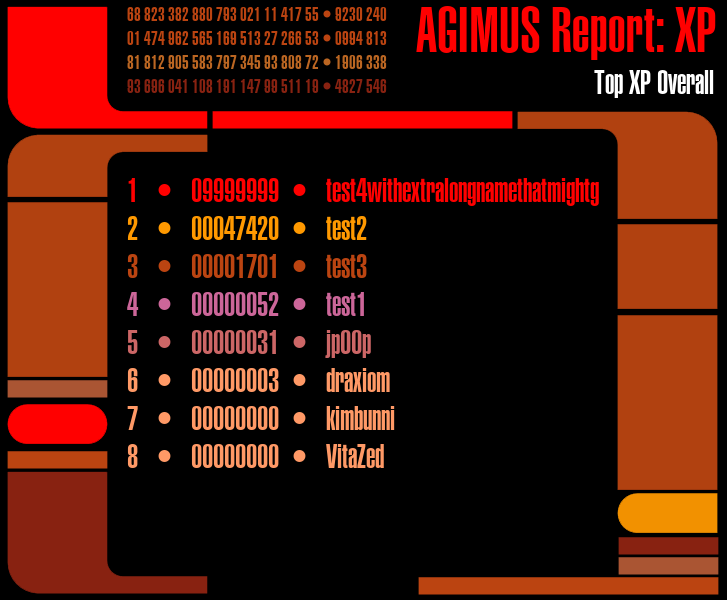
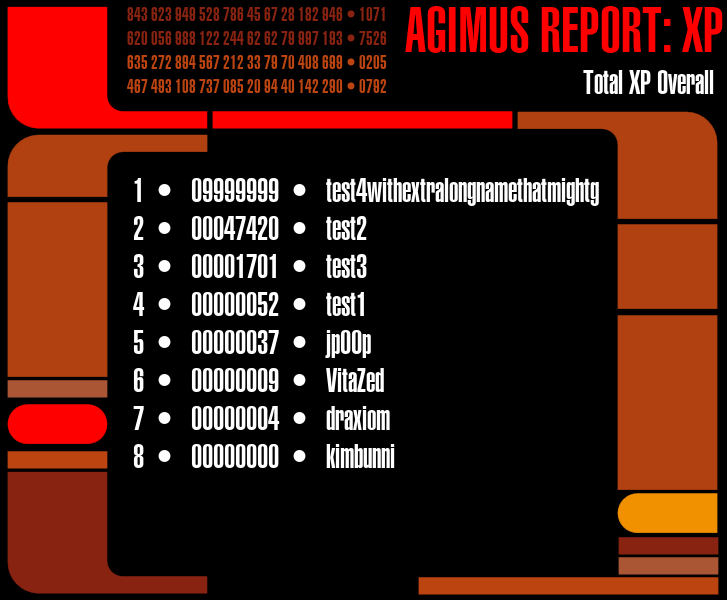
late night refactoring
made the report image generator a lot more generic

now you just pass a title, description, and list of strings that you want reported and it will make the image for you!

also fixed xp history logging to log channel id not name

Changed region(s): [[0.1513, 0.3, 0.8473, 0.78], [0.1513, 0.0, 0.9986, 0.18]]

diff --git a/commands/reports.py b/commands/reports.py
@@ -13,16 +13,25 @@ from utils.check_channel_access import access_check
     discord.OptionChoice(
       name="XP",
       value="xp"
+    ),
+    discord.OptionChoice(
+      name="Scores",
+      value="scores"
     )
   ]
 )
+
 @commands.check(access_check)
 # reports() - entrypoint for /reports command
 # will help us build fancy looking reports for administration and fun
 async def reports(ctx:discord.ApplicationContext, report:str):
   if report == "xp":
     image = generate_xp_report_card()
+  if report == "scores":
+    image = generate_scores_report_card()
+  if image:
     await ctx.respond(file=image, ephemeral=False)
+
 
 # get_xp_report() - returns a dictionary of overall top xp users
 def get_xp_report():
@@ -36,54 +45,92 @@ def get_xp_report():
   db.close()
   return results
 
-# generate_xp_report_card() - returns a discord.File ready for embedding
+# get_scores_report() - returns a dictionary of users sorted by top scores
+def get_scores_report():
+  db = getDB()
+  query = db.cursor(dictionary=True)
+  sql = "SELECT name,score FROM users ORDER BY score DESC LIMIT 10"
+  query.execute(sql)
+  results = query.fetchall()
+  db.commit()
+  query.close()
+  db.close()
+  return results
+
+# process the xp data and generate an image
 def generate_xp_report_card():
-  xp_font = ImageFont.truetype("images/context.ttf", 34)
+  xp_data = get_xp_report()
+  title = "AGIMUS REPORT"
+  description = "Total XP Overall"
+  rows = []
+  rank = 1
+  for row in xp_data:
+    truncated_name = row["name"][:31]
+    rows.append("{:>3} {spacer:^4} {:>08d} {spacer:^4} {}".format(rank, row["xp"], truncated_name, spacer="•"))
+    rank += 1
+  return generate_report_card(title, description, rows)
+
+# process the scores data and generate an image
+def generate_scores_report_card():
+  score_data = get_scores_report()
+  title = "AGIMUS REPORT"
+  description = "Top scores"
+  rows = []
+  rank = 1
+  for row in score_data:
+    truncated_name = row["name"][:31]
+    rows.append("{:>3} {spacer:^4} {:>08d} {spacer:^4} {}".format(rank, row["score"], truncated_name, spacer="•"))
+    rank += 1
+  return generate_report_card(title, description, rows)
+
+
+# generate_report_card(title:str, description:str, rows:list) - generate a generic report - returns a discord.File ready for embedding
+# title[required]: the report title
+# description[required]: the report description
+# rows[required]: a list of rows for the report (max 10 items)
+def generate_report_card(title:str, description:str, rows:list):
+
+  normal_font = ImageFont.truetype("images/context.ttf", 34)
   title_font = ImageFont.truetype("images/context.ttf", 63)
   deco_font = ImageFont.truetype("images/context.ttf", 20)
-  xp_data = get_xp_report()
-  
-  template_image = "report-template.png"
+
+  template_image = "report-template.png" # the base image for all reports (for now)
   image = Image.open(f"./images/{template_image}", "r")
   image = image.convert("RGBA") # just in case
 
   draw = ImageDraw.Draw(image) # prepare thy pencil!
 
-  # draw title and report description
-  draw.text( (416, 6), "AGIMUS Report: XP", fill="#ff0000", font=title_font, anchor="lt", align="left")
-  draw.text( (594, 70), "Top XP Overall", fill="white", font=xp_font, anchor="lt", align="left")
+  # draw title and report description at the top right
+  draw.text( (715, 6), title, fill="#ff0000", font=title_font, anchor="rt", align="right")
+  draw.text( (715, 70), description, fill="white", font=normal_font, anchor="rt", align="right")
 
   # generate a bunch of fancy random numbers for the top, why not!
-  deco_rows = 4
-  bit_stream = {}
+  deco_rows = 4 # 4 rows of number
+  bit_stream = {} # this will hold the actual strings at the end
   for i in range(deco_rows):
-    random_bits = {}
+    # number grouping based on a random LCARS image i saw
+    random_bits = {} # this holds the ints for formatting
     bit_stream[i] = {}
-    random_bits[0] = random.randint(0, 99)
     for x in range(1,6):
-      random_bits[x] = random.randint(0, 999)
-    random_bits[6] = random.randint(0, 99)
-    random_bits[7] = random.randint(0, 999)
-    random_bits[8] = random.randint(0, 99)
+      random_bits[x] = random.randint(0, 999) # random int
+      bit_stream[i][x] = "{:03}".format(random_bits[x]) # format the string
+    for x in [0, 6, 8]:    
+      random_bits[x] = random.randint(0, 99)
+      bit_stream[i][x] = f"{random_bits[x]:02}" 
+    for x in [7, 11]:
+      random_bits[x] = random.randint(0, 999) 
+      bit_stream[i][x] = f"{random_bits[x]:03}"
     random_bits[9] = "•"
     random_bits[10] = random.randint(0, 9999)
-    random_bits[11] = random.randint(0, 999)
-
-    bit_stream[i][0] = f"{random_bits[0]:02}"
-    for b in range(1,6):
-      bit_stream[i][b] = "{:03}".format(random_bits[b])
-    bit_stream[i][6] = f"{random_bits[6]:02}"
-    bit_stream[i][7] = f"{random_bits[7]:03}" 
-    bit_stream[i][8] = f"{random_bits[8]:02}"
     bit_stream[i][9] = f"{random_bits[9]}"
     bit_stream[i][10] = f"{random_bits[10]:04}"
-    bit_stream[i][11] = f"{random_bits[11]:03}" 
 
-  stream_x = 127
+  stream_x = 127 # start here
   stream_y = 6
-  stream_line_height = 24
-  stream_colors = ["#882211", "#BB6622", "#BB4411"]
+  stream_line_height = 24 # jump this much each line
+  stream_colors = ["#882211", "#BB6622", "#BB4411"] # each line could be one of these colors
 
+  # actually draw the random stream of data
   for counter, stream in bit_stream.items():
     stream_line_y = stream_y + (stream_line_height * counter)
     stream_text = " ".join(stream.values())
@@ -91,24 +138,15 @@ def generate_xp_report_card():
     counter += 1
 
   # done making the silly numbers at the top
-  # now draw the actual scores
-
-  text_x = 127
+  # now draw the actual data in the rows
+  text_x = 127 # start here
   text_y = 178
-  line_height = 38
+  line_height = 38 # jump this much each line
   counter = 0
-  colors = ["#FF0000", "#FF9900", "#CC6699", "#BB4411", "#CC6666", "#FF9966"]
-
-  for row in xp_data:
-    line_y = text_y + (line_height * counter)
-    rank = counter + 1
-    if counter <= 4:
-      color = colors[counter]
-    else:
-      color = colors[5]
-    truncated_name = row["name"][0:32]
-    draw.text( (text_x, line_y), "{:<2} {spacer:^4} {:>08d} {spacer:^4} {}".format(rank, row["xp"], truncated_name, spacer="•"), fill=color, font=xp_font, anchor="lt", align="left")
+  for row in rows[:10]:
+    line_y = text_y + (line_height * counter) # calculate our y position for this line
+    draw.text( (text_x, line_y), row, fill="white", font=normal_font, anchor="lt", align="left")
     counter += 1
 
-  image.save("./images/reports/xp-report.png")
-  return discord.File("./images/reports/xp-report.png")
+  image.save("./images/reports/report.png")
+  return discord.File("./images/reports/report.png")

diff --git a/handlers/xp.py b/handlers/xp.py
@@ -53,7 +53,7 @@ async def handle_message_xp(message:discord.Message):
       star = f"{msg_color}{Style.BRIGHT}*{Style.NORMAL}{Fore.RESET}"
       logger.info(f"{star} {msg_color}{message.author.display_name}{Fore.RESET} earns {msg_color}{xp_amt} XP{Fore.RESET} {star}")
 
-      increment_user_xp(message.author, xp_amt, "message", message.channel.name) # commit the xp gain to the db
+      increment_user_xp(message.author, xp_amt, "message", message.channel) # commit the xp gain to the db
 
       current_color = current_color + 1
       if current_color >= len(xp_colors):
@@ -152,7 +152,7 @@ async def handle_react_xp(reaction:discord.Reaction, user:discord.User):
   # If reaction hasn't been logged already, go ahead and do so and then award some XP!
   logger.info(f"{star} {msg_color}{user.display_name}{Fore.RESET} earns {msg_color}1 XP{Fore.RESET} for reacting to a message! {star}")
   log_react_history(reaction, user)
-  increment_user_xp(user, 1, "reacted", reaction.message.channel.name)
+  increment_user_xp(user, 1, "reacted", reaction.message.channel)
 
   # Give the author some bonus XP if they've made a particularly reaction-worthy message!
   threshold_relevant_emojis = [
@@ -176,7 +176,7 @@ async def handle_react_xp(reaction:discord.Reaction, user:discord.User):
     xp_amt = 5
 
   if xp_amt > 0:
-    increment_user_xp(reaction.message.author, xp_amt, "reactions", reaction.message.channel.name)
+    increment_user_xp(reaction.message.author, xp_amt, "reactions", reaction.message.channel)
 
   current_color = current_color + 1
   if current_color >= len(xp_colors):
@@ -187,8 +187,9 @@ async def handle_react_xp(reaction:discord.Reaction, user:discord.User):
 # increment_user_xp(author, amt)
 # messauge.author[required]: discord.User
 # amt[required]: int
+# channel[required]: discord.Channel
 # This function will increment a users' XP and log the gain to the history
-def increment_user_xp(user, amt, reason, channel_name):
+def increment_user_xp(user, amt, reason, channel):
   db = getDB()
   query = db.cursor()
   sql = "UPDATE users SET xp = xp + %s, name = %s WHERE discord_id = %s"
@@ -197,7 +198,7 @@ def increment_user_xp(user, amt, reason, channel_name):
   db.commit()
   query.close()
   db.close()
-  log_xp_history(user.id, amt, channel_name, reason)
+  log_xp_history(user.id, amt, channel.id, reason)
 
 # get_user_xp(discord_id)
 # discord_id[required]: int
@@ -239,14 +240,14 @@ def log_react_history(reaction:discord.Reaction, user:discord.User):
 # log_xp_history(user_discord_id:int, amt:int, channel_name:str, reason:str)
 # user_discord_id[required]: int
 # amt[required]: int
-# channel_name[required]: str 
+# channel_id[required]: int
 # reason[required]: str
 # This function will log xp gains to a table for reporting
-def log_xp_history(user_discord_id:int, amt:int, channel_name:str, reason:str):
+def log_xp_history(user_discord_id:int, amt:int, channel_id:int, reason:str):
   db = getDB()
   query = db.cursor()
-  sql = "INSERT INTO xp_history (user_discord_id, amount, channel_name, reason) VALUES (%s, %s, %s, %s)"
-  vals = (user_discord_id, amt, channel_name, reason)
+  sql = "INSERT INTO xp_history (user_discord_id, amount, channel_id, reason) VALUES (%s, %s, %s, %s)"
+  vals = (user_discord_id, amt, channel_id, reason)
   query.execute(sql, vals)
   db.commit()
   query.close()
